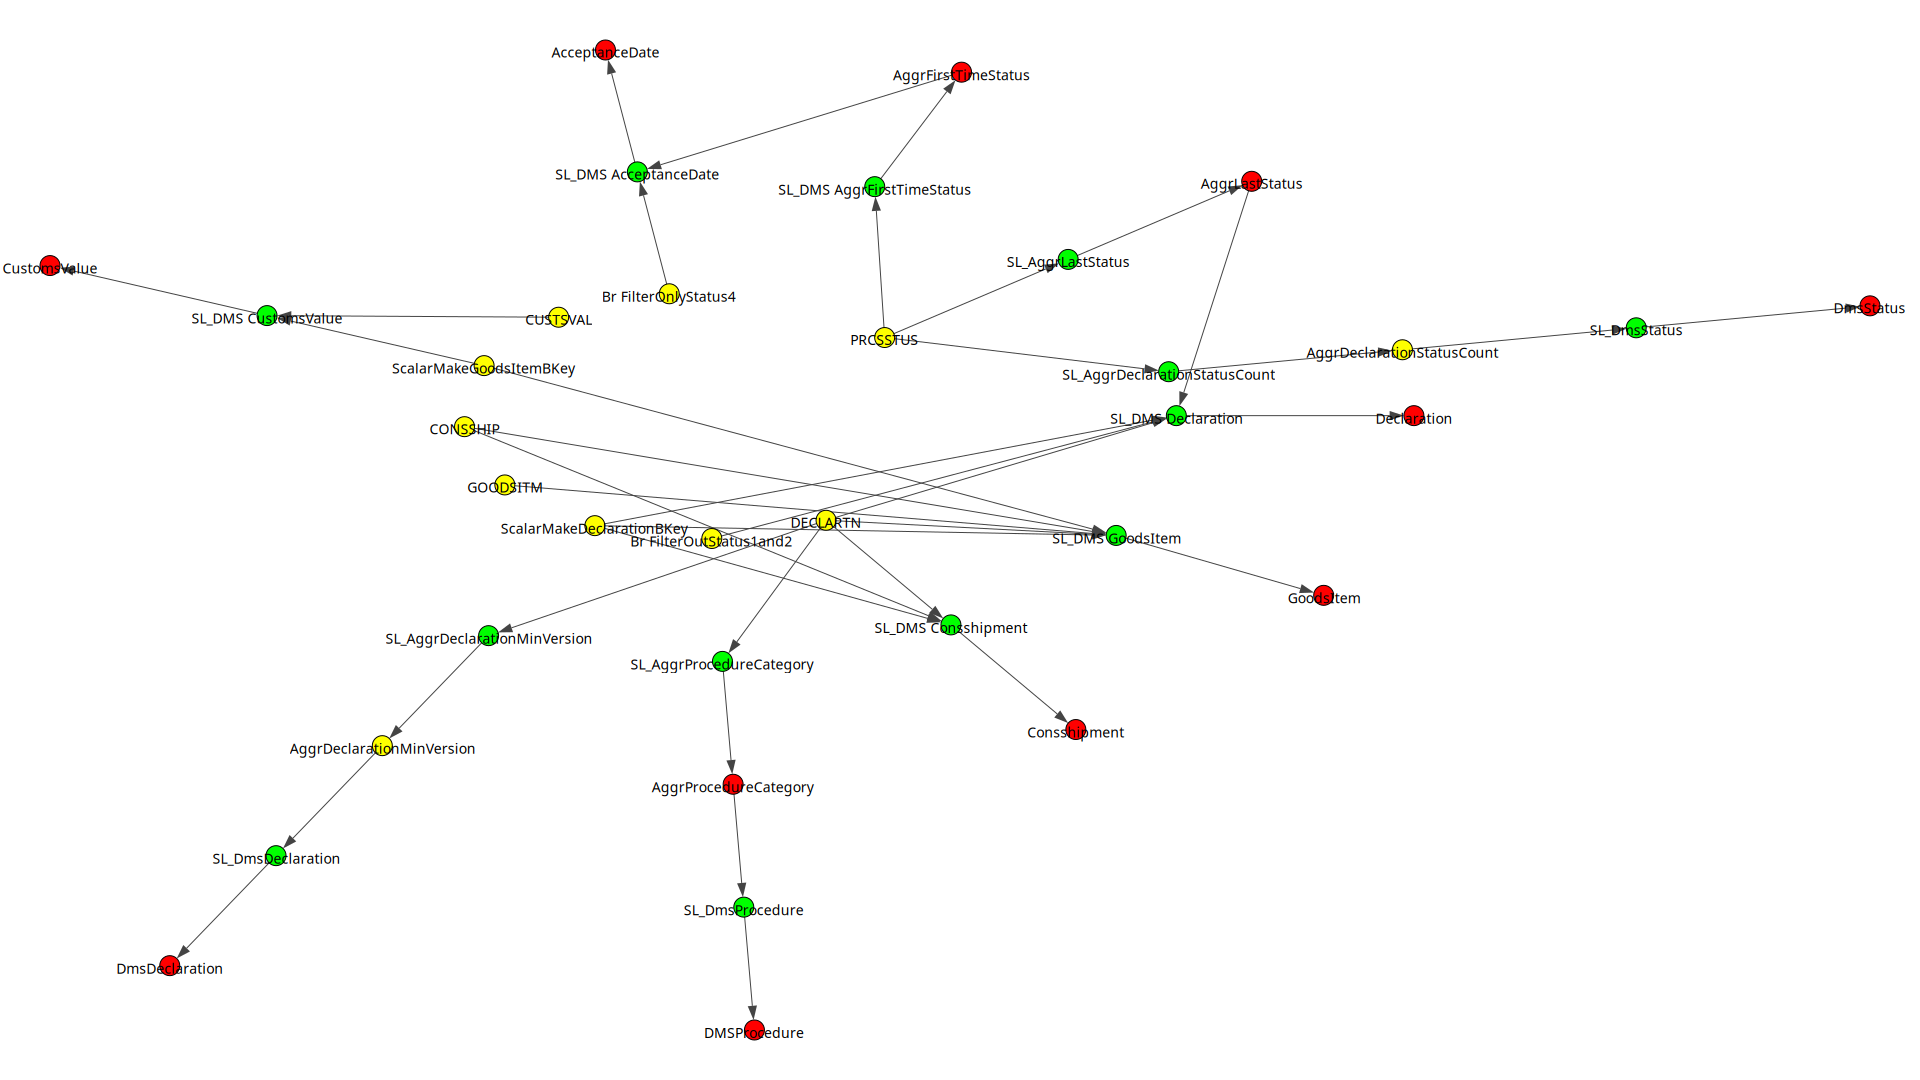
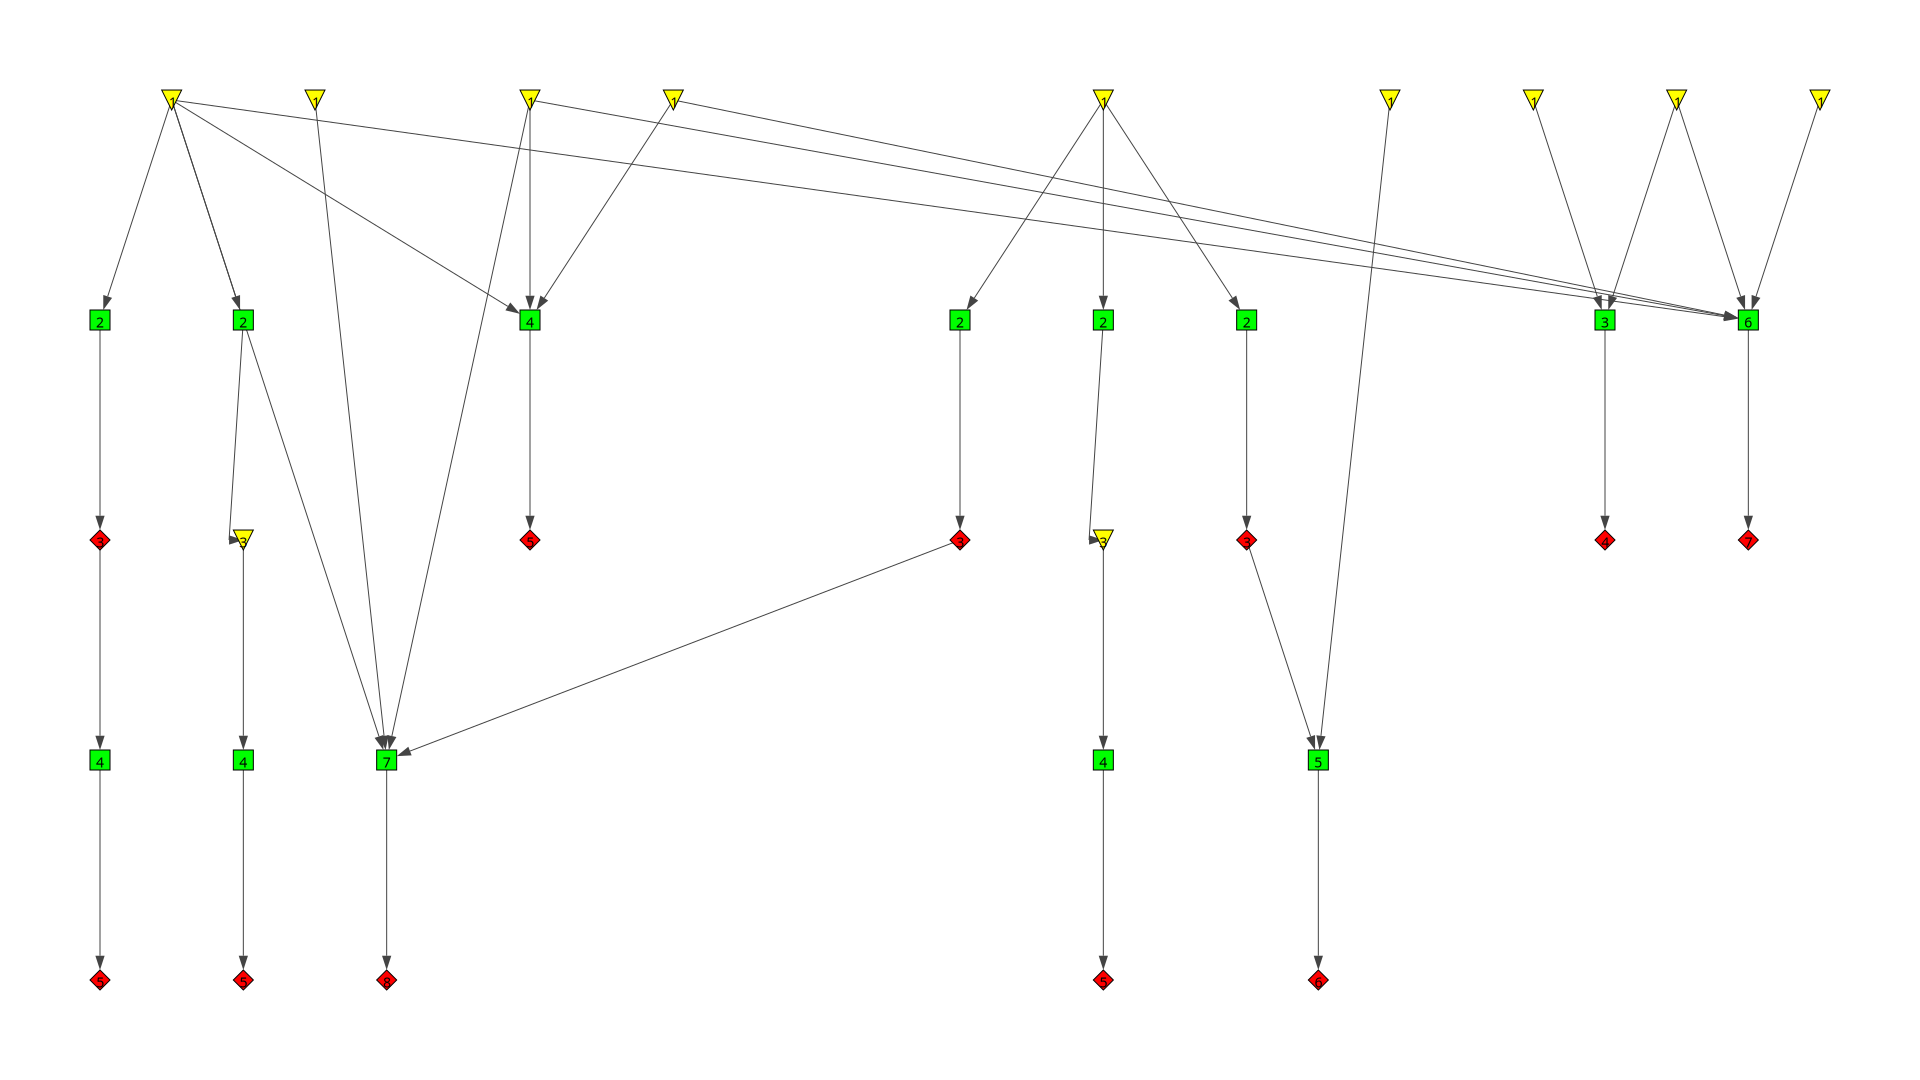
More attempts at finding route

diff --git a/mapping_order.py b/mapping_order.py
@@ -56,15 +56,38 @@ class MappingDependencyParser:
             dag (ig.Graph): DAG of mappings and entities
             file_png_out (str): file name to write the image to
         """
+        lst_order = []
+        for i in range(dag.vcount()):
+            lst_order.append(len(dag.subcomponent(dag.vs[i], mode="in")))
+        tets = dag.predecessors(dag.vs[10])
+        # lst_order = dag.topological_sorting(mode="in")
+        # dag_types = dag.vs["type"]
+        # lst_order_2 = []
+        # for order, role in zip(lst_order, dag_types):
+        #     if role == "mapping":
+        #         lst_order_2.append(order)
+        #     else:
+        #         lst_order_2.append(-999)
+        # for i, order in enumerate(lst_order_2):
+        #     if order >= 0:
+        #         dag.vs[i]["label"] = str(order) + "\n" + dag.vs[i]["Name"]
+        #     else:
+        #         dag.vs[i]["label"] = dag.vs[i]["Name"]
         node_colors = {
             "source_entity": "yellow",
             "mapping": "green",
             "target_entity": "red",
         }
         dag.vs["color"] = [node_colors[type_key] for type_key in dag.vs["type"]]
-        dag.vs["label"] = dag.vs["Name"]
-        visual_style = {"bbox": (1920,1080), "layout": dag.layout("rt_circular"), "margin": 50}
-        ig.plot(dag, target=file_png_out, **visual_style)
+        node_shapes = {
+            "source_entity": "triangle-down",
+            "mapping": "rectangle",
+            "target_entity": "diamond",
+        }
+        dag.vs["shape"] = [node_shapes[type_key] for type_key in dag.vs["type"]]
+        layout = dag.layout_sugiyama()
+        visual_style = {"bbox": (1920,1080), "margin": 100}
+        ig.plot(dag, target=file_png_out, layout = layout, directed=True, vertex_label=lst_order, **visual_style)
 
     def plot_dag_interactive(self, dag: ig.Graph, file_png_out: str) -> None:
         df = pd.DataFrame(self.links)
@@ -190,4 +213,4 @@ if __name__ == "__main__":
         if success:
             graph = dep_parser.get_dag()
             dep_parser.plot_dag(graph, "output/dag.png")
-            dep_parser.plot_dag_interactive(graph, file_png_out="output/output.html")
+            #dep_parser.plot_dag_interactive(graph, file_png_out="output/output.html")
